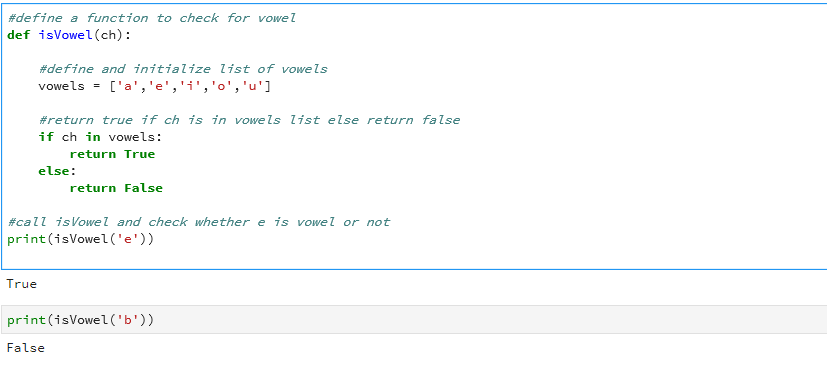
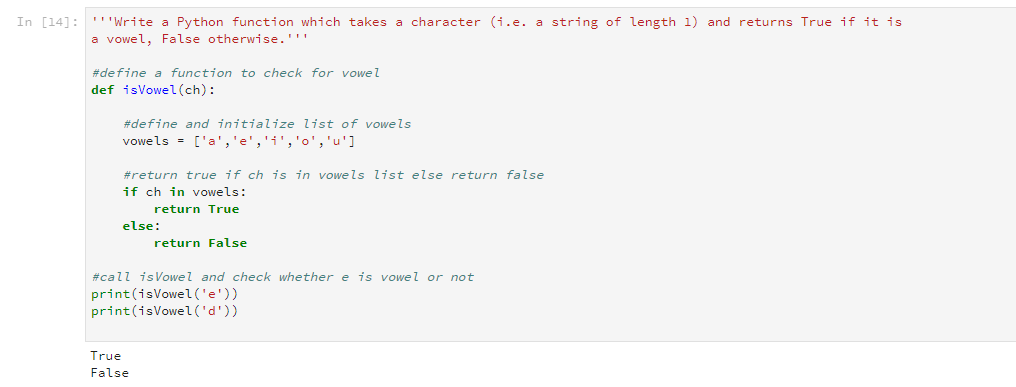
changes
changes

diff --git a/IsVowel.py b/IsVowel.py
@@ -1,3 +1,6 @@
+'''Write a Python function which takes a character (i.e. a string of length 1) and returns True if it is
+a vowel, False otherwise.'''
+
 #define a function to check for vowel
 def isVowel(ch):
     
@@ -12,3 +15,4 @@ def isVowel(ch):
     
 #call isVowel and check whether e is vowel or not
 print(isVowel('e'))
+print(isVowel('d'))

diff --git a/WordCount.py b/WordCount.py
@@ -1,3 +1,6 @@
+'''Write a Python program using function concept that maps list of words into a list of integers
+representing the lengths of the corresponding words.'''
+
 #declare and initialize list of words
 list1=["SunilKumar", "Rajesh", "Ramu", "Shyam"]
 
